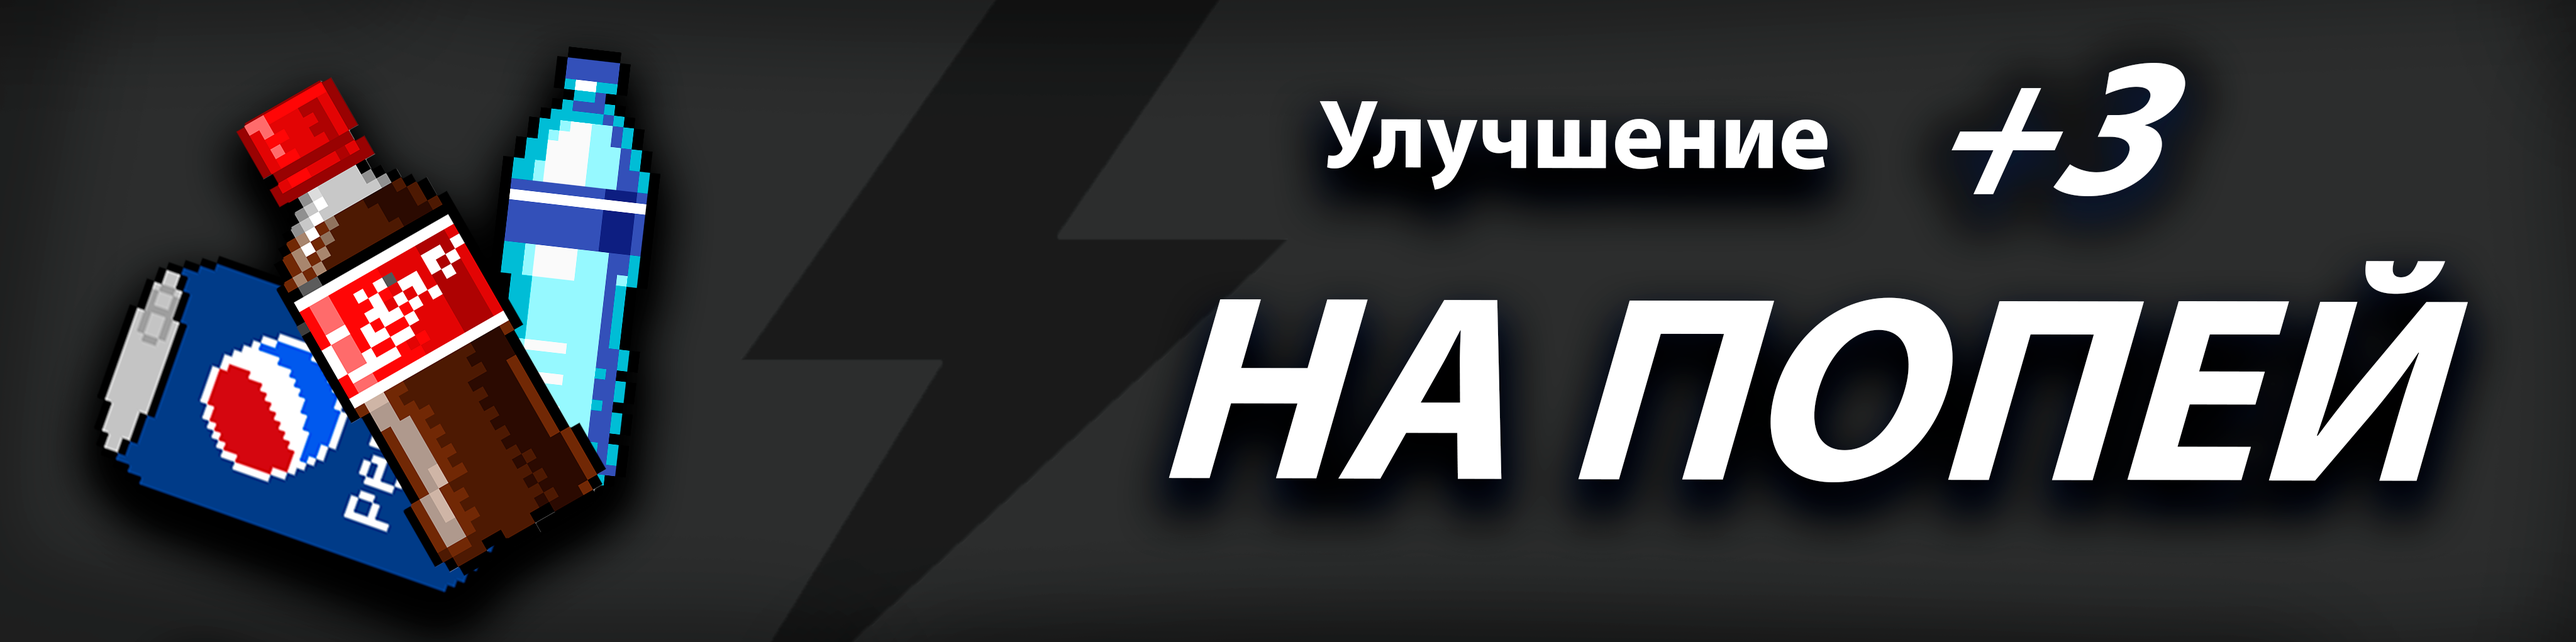
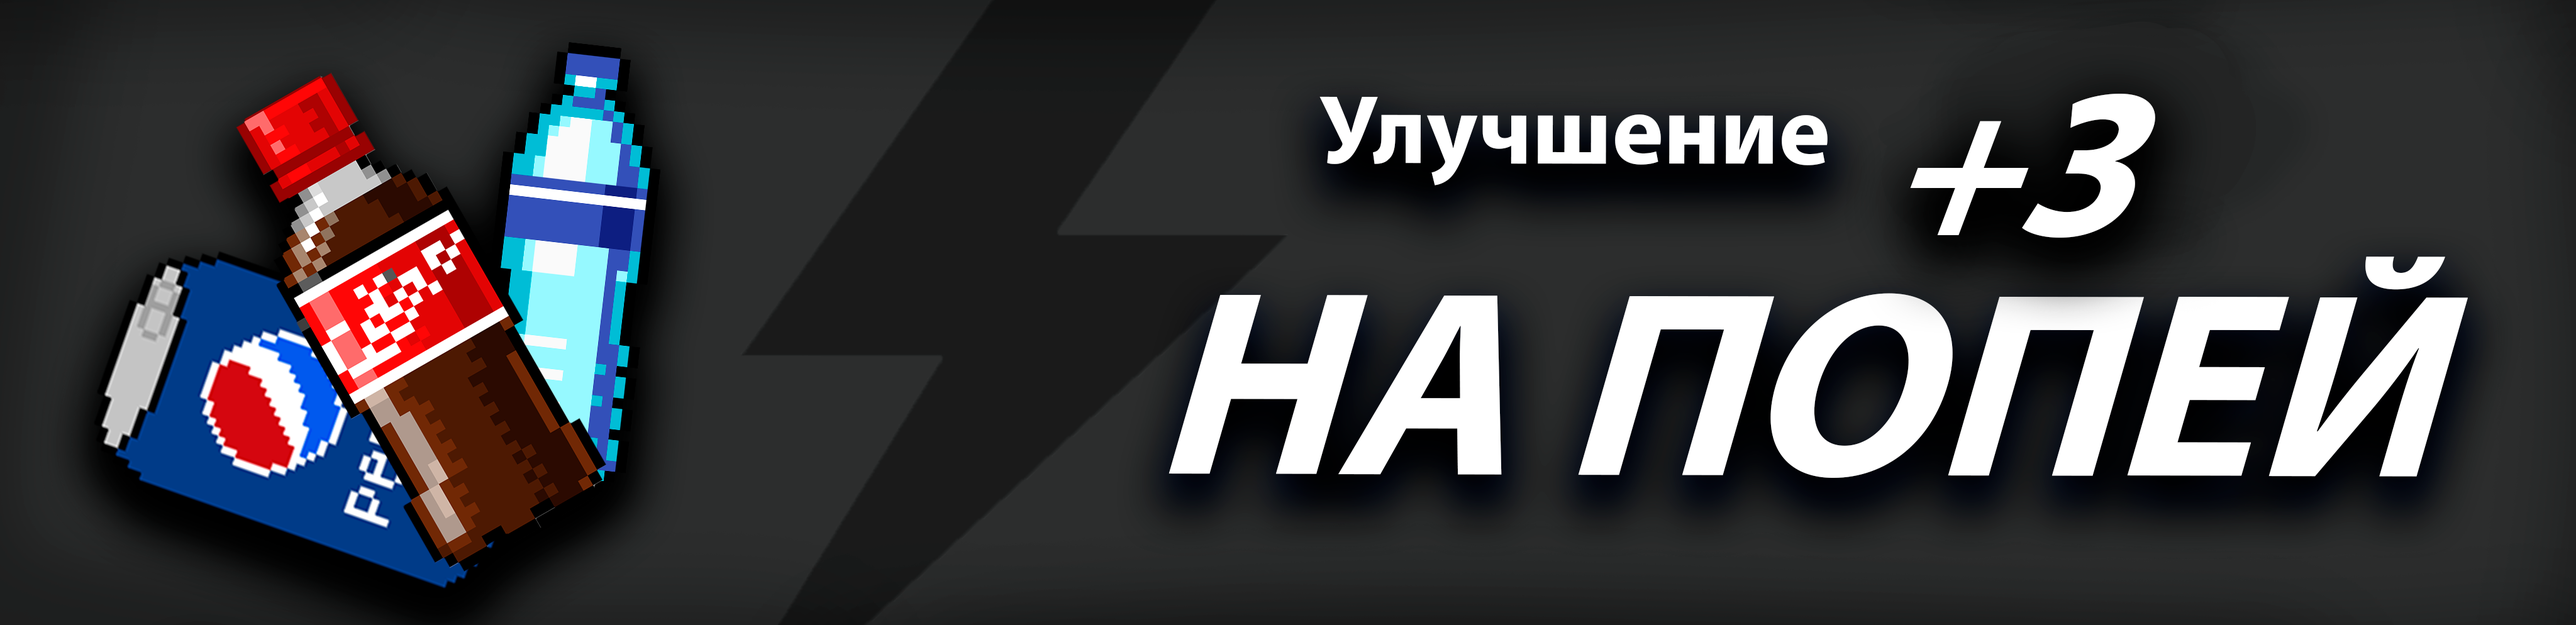
TEDSlsadkad ustal ya

diff --git a/styles2.css b/styles2.css
@@ -100,8 +100,8 @@ h1, .counter, .button {
     box-shadow: 1px 2px 39px 0px rgba(0, 0, 0, 1);
 }
 .CPS1 {
-    font-size: 7vh;
-    bottom: 15vh;
+    font-size: 8vh;
+    bottom: 14vh;
     align-items: center;
     position: relative;
     font-family: "Slackey", sans-serif;
@@ -109,13 +109,13 @@ h1, .counter, .button {
     
 }
 .CPS3 {
-    font-size: 7.2vh;
-    top: -39.8vh;
+    font-size: 4.2vh;
+    top: -36.8vh;
     align-items: center;
     position: relative;
     font-family: "Slackey", sans-serif;
-    z-index:100;
     text-shadow: 6px 11px 15px rgba(0,0,0,0.95);
+    z-index: 1;
 }
 .CPS31 {
     font-size: 4vh;
@@ -124,6 +124,8 @@ h1, .counter, .button {
     position: relative;
     font-family: "Slackey", sans-serif;
     z-index:100;
+    color: #444444;
+    background: #FFFFFF;
     
 }
 .CPS4 {
@@ -150,16 +152,16 @@ h1, .counter, .button {
     font-size: 2.2vh;
     color: white;
     position: relative;
-    top: 5.2vh;
-    left: -5vh;
+    top: 5.6vh;
+    left: -6vh;
     font-family: "Slackey", sans-serif;
 }
 #priceDisplay2 {
     font-size: 2.2vh;
     color: white;
     position: relative;
-    top: 5vh;
-    left: -5vh;
+    top: 5.6vh;
+    left: -6vh;
     font-family: "Slackey", sans-serif;
 }
 
@@ -173,8 +175,8 @@ h1, .counter, .button {
     border: none;
     cursor: pointer;
     color: transparent;
-    width: 89vw;
-    height: 11vh;
+    width: 99vw;
+    height: 12.2vh;
     bottom: 47vh;
     outline: none;
     /* padding: 250px; */
@@ -186,6 +188,7 @@ h1, .counter, .button {
     -webkit-box-shadow: 1px 2px 39px 0px rgba(0, 0, 0, 1);
     -moz-box-shadow: 1px 2px 39px 0px rgba(0, 0, 0, 1);
     box-shadow: 1px 2px 39px 0px rgba(0, 0, 0, 1);
+    z-index: 100;
 }
 
 .button3 {
@@ -198,8 +201,8 @@ h1, .counter, .button {
     border: none;
     cursor: pointer;
     color: transparent;
-    width: 89vw;
-    height: 11vh;
+    width: 99vw;
+    height: 12.2vh;
     bottom: 41vh;
     outline: none;
     /* padding: 250px; */
@@ -211,6 +214,7 @@ h1, .counter, .button {
     -webkit-box-shadow: 1px 2px 39px 0px rgba(0, 0, 0, 1);
     -moz-box-shadow: 1px 2px 39px 0px rgba(0, 0, 0, 1);
     box-shadow: 1px 2px 39px 0px rgba(0, 0, 0, 1);
+    z-index: 100;
 }
 
 .button:active {
